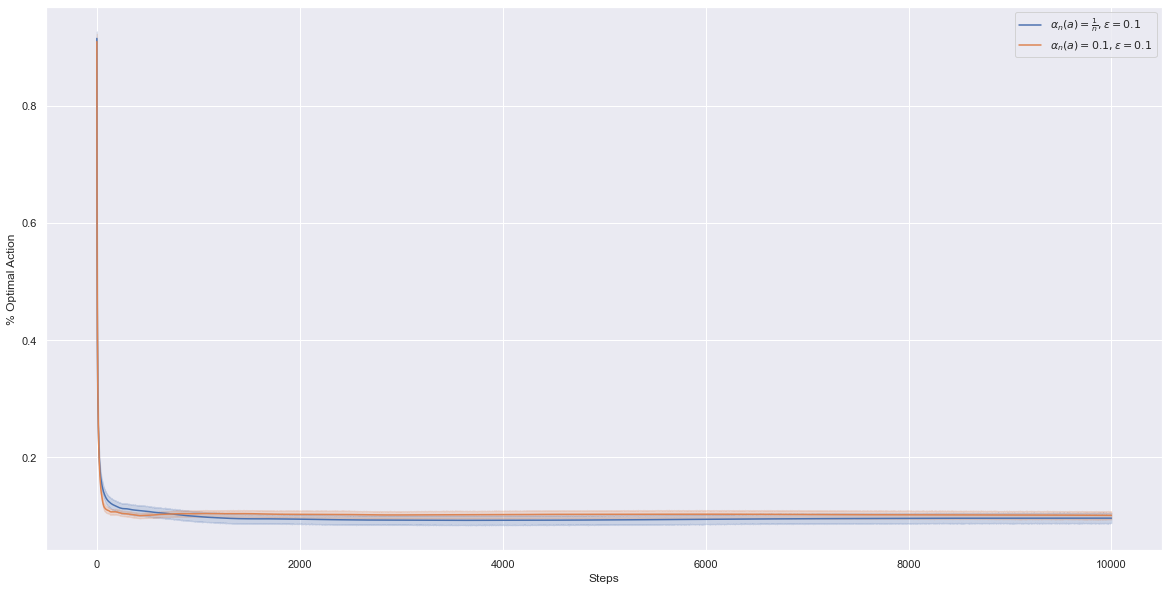
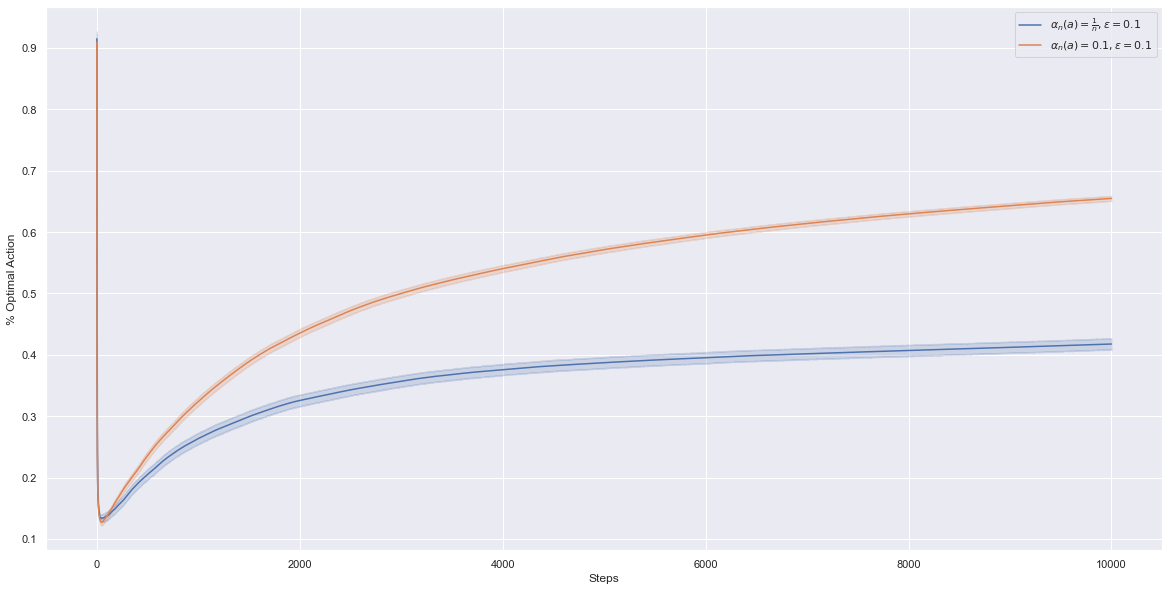
Fixing percentage optimal action for non stationary problem

diff --git a/Intro_RL_Sutton_book/Chap2-Multi-Armed-Bandits/non-stationary-testbed/non_stationary_problem_experiment.py b/Intro_RL_Sutton_book/Chap2-Multi-Armed-Bandits/non-stationary-testbed/non_stationary_problem_experiment.py
@@ -12,7 +12,7 @@ sns.set()
 
 def eps_greedy(epsilon: float, Q: np.ndarray):
     """
-    Greedy action selection with respect to Q 
+    Epsilon-Greedy action selection with respect to Q 
     (one single state, situation. Non associative setting)
 
     Parameters
@@ -50,8 +50,6 @@ def single_run(epsilon: float, horizon: int, estimation_method="sample-avg", alp
 
     Returns
     -------
-    np.ndarray
-        Actual action-values.
     list_Q : list
         ndarrays containing estimates of action values for each time step.
     list_reward : list
@@ -68,8 +66,6 @@ def single_run(epsilon: float, horizon: int, estimation_method="sample-avg", alp
     N = np.zeros(env.action_space.shape)
     # Number of times optimal action was taken
     N_opt = 0
-    # The optimal action
-    opt_action = np.argmax(env.q_star)
     
     list_Q = []
     list_reward = []
@@ -78,6 +74,10 @@ def single_run(epsilon: float, horizon: int, estimation_method="sample-avg", alp
     
     done = False
     while not done:
+        # The optimal action (changes over time)
+        opt_action = np.argmax(env.q_star)
+        # Number of times optimal action was taken is not in N[opt_action]
+    
         action = eps_greedy(epsilon, Q)
         reward, done = env.step(action)
         
@@ -93,14 +93,14 @@ def single_run(epsilon: float, horizon: int, estimation_method="sample-avg", alp
             Q[action] += alpha*(reward - Q[action])
         else:
             raise Exception("Estimation method does not exist.")
-            
+                
         # Record Q[action], reward, N_opt : used for plotting
         list_Q += [Q[action]]
         list_reward += [reward]
         list_N_opt += [N_opt]
         
     env.reset()
-    return env.q_star, list_Q, list_reward, list_N_opt
+    return list_Q, list_reward, list_N_opt
     
 if __name__ == "__main__":
     np.random.seed(42)  # for reproducibility
@@ -108,8 +108,8 @@ if __name__ == "__main__":
     n_runs = 2000
     
     # Eps-Greedy : epsilon = 0.1 for both
-    _, _, rewardsSampleAvg, N_optsSampleAvg = zip(*[single_run(epsilon=0.1, horizon=horizon, estimation_method="sample-avg") for _ in range(n_runs)])
-    _, _, rewardsExpRecencyWeightedAvg, N_optsExpRecencyWeightedAvg = zip(*[single_run(epsilon=0.1, horizon=horizon, estimation_method="exponential recency-weighted avg") for _ in range(n_runs)])
+    _, rewardsSampleAvg, N_optsSampleAvg = zip(*[single_run(epsilon=0.1, horizon=horizon, estimation_method="sample-avg") for _ in range(n_runs)])
+    _, rewardsExpRecencyWeightedAvg, N_optsExpRecencyWeightedAvg = zip(*[single_run(epsilon=0.1, horizon=horizon, estimation_method="exponential recency-weighted avg") for _ in range(n_runs)])
     
     # Changing tuples of tuples into arrays
     arr_rewardsSampleAvg = np.array(rewardsSampleAvg)
@@ -122,7 +122,7 @@ if __name__ == "__main__":
     # Average Reward
     plt.figure(figsize=(20, 10))
     # Get array containing 0 1 2 3 ... 999 repeated 2000 times
-    xs = np.broadcast_to(np.arange(horizon), arr_rewardsSampleAvg.shape).flatten()
+    xs = np.tile(np.arange(horizon), 2000)
     
     sns.lineplot(x=xs, y=arr_rewardsSampleAvg.flatten())
     sns.lineplot(x=xs, y=arr_rewardsExpRecencyWeightedAvg.flatten())

diff --git a/Intro_RL_Sutton_book/Chap2-Multi-Armed-Bandits/non-stationary-testbed/environment/NonStationaryTestBedEnv.py b/Intro_RL_Sutton_book/Chap2-Multi-Armed-Bandits/non-stationary-testbed/environment/NonStationaryTestBedEnv.py
@@ -61,7 +61,7 @@ class NonStationaryTestBedEnv:
         Returns
         -------
         reward : int or float
-            scalar reward signal after taking a pulling the arm.
+            scalar reward signal after taking the action (pulling the arm).
         done : bool
             if the episode is finished or not.
         """

diff --git a/Intro_RL_Sutton_book/Chap2-Multi-Armed-Bandits/non-stationary-testbed/README.md b/Intro_RL_Sutton_book/Chap2-Multi-Armed-Bandits/non-stationary-testbed/README.md
@@ -9,14 +9,15 @@ This experiment is for the Exercise 2.5 (page 33) of Sutton and Barto's book.
 ## Average reward of epsilon-greedy action-value methods on a nonstationary problem
 We compare the effect of sample-average methods compared to constant step-size parameter (exponential recency-weighted average) methods for estimating action values.
 
-![image](https://user-images.githubusercontent.com/49496107/126472232-66d8cc40-3ab0-4166-97c0-0e886b899f5f.png)
+![avg reward](./images/avg_reward.png)
 
 Because the action-values change over time, tracking/estimating them by doing empirical means (sample-average methods) give poor estimations of the true action values.
 Poor estimations of true action values lead to poor action selections and we can observe the resulting effects on the performance of both figures.
 
 ## Percentage of optimal action
 
-![image](https://user-images.githubusercontent.com/49496107/126472246-babc214e-f747-489c-a1fc-d2cb275855c6.png)
+The % optimal action means : how many percent of all previous actions (for instance if we are at step 500, how many percent of the previous 500 actions) the method took the optimal action(s) (recall that the action-values change over time, the optimal action can change over time).
+![percent optimal action](./images/percent_optimal_action.png)
 
 
 ## Remark(s) about implementation

diff --git a/Intro_RL_Sutton_book/Chap2-Multi-Armed-Bandits/10-armed-testbed/README.md b/Intro_RL_Sutton_book/Chap2-Multi-Armed-Bandits/10-armed-testbed/README.md
@@ -19,7 +19,9 @@ We can observe that the greedy method seems bounded and stuck. This can be due t
 
 
 ## Percentage of optimal action
-The probability of taking the optimal action is the probability of : taking a greedy action or (taking a random action and taking the optimal action). In other words: 1 - eps + eps*1/(number of actions) (this formula only works epsilon is not 0)
+The probability of taking the optimal action is the probability of : taking a greedy action or (choosing to take a random action and then taking the optimal action). In other words: 1 - eps + eps*1/(number of actions) (this formula only works epsilon is not 0)
+
+The % optimal action means : how many percent of all previous actions (for instance if we are at step 500, how many percent of the previous 500 actions) the method took the optimal action (the one with highest true action value).
 
 ![percent optimal action](./images/percent_optimal_action.png)
 
